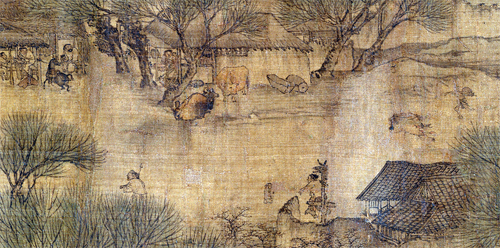
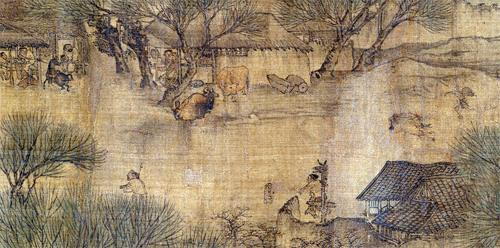
fix: 包体压缩 2455KB→550KB 过预览限制；时间轴水墨画像位置收紧、seg 近实色、小印改逐字堆叠防错位

diff --git a/tools/compress_assets.py b/tools/compress_assets.py
@@ -1,0 +1,34 @@
+"""压缩小程序图片资产以通过 2MB 预览包限制。
+
+- paper-bg.png -> paper-bg.jpg（统一宣纸底，尺寸降到 585x1266，质量 72）
+- palace.png -> palace.jpg（hero 插画，卡片底色 #FCFAFB 已有，无需透明通道）
+- tang-bg.jpg / song.jpg -> 同名覆盖（宽 900 内，质量 72）
+"""
+import io
+from pathlib import Path
+from PIL import Image
+
+ROOT = Path(__file__).resolve().parents[1] / 'miniprogram'
+
+
+def save_jpg(img, path, quality=72, max_w=1200):
+    img = img.convert('RGB')
+    if img.width > max_w:
+        img = img.resize((max_w, round(img.height * max_w / img.width)))
+    img.save(path, 'JPEG', quality=quality, optimize=True)
+    size = Path(path).stat().st_size // 1024
+    print(f'{path.name}: {size} KB  ({img.width}x{img.height})')
+
+
+bg = Image.open(ROOT / 'assets/paper-bg.png')
+print('paper-bg 原尺寸', bg.size)
+w = 585
+bg2 = bg.resize((w, round(bg.height * w / bg.width)))
+save_jpg(bg2, ROOT / 'assets/paper-bg.jpg', quality=72)
+
+palace = Image.open(ROOT / 'assets/palace.png')
+print('palace 原尺寸', palace.size)
+save_jpg(palace, ROOT / 'assets/palace.jpg', quality=84, max_w=760)
+
+save_jpg(Image.open(ROOT / 'assets/tang-bg.jpg'), ROOT / 'assets/tang-bg.jpg', quality=70, max_w=900)
+save_jpg(Image.open(ROOT / 'assets/paintings/song.jpg'), ROOT / 'assets/paintings/song.jpg', quality=74, max_w=900)

diff --git a/AGENTS.md b/AGENTS.md
@@ -154,7 +154,7 @@ python tools/validate_miniprogram.py
 - 使用 `rpx`；1px 细线可用 `px`（或 1rpx）。
 - 自定义导航栏：`navigationStyle: "custom"`；**四个主页面（首页/时间轴/发现/我的）顶部都只保留"史页"类字标，不放搜索/菜单图标**（2026-10-19 用户要求移除时间轴、发现页的搜索/菜单）。详情页顶栏为"‹ 返回 + 页面名 + 小印"。
 - 当前没有配置原生 `tabBar`，底部四栏是自绘的，用 `wx.redirectTo` 在 4 个页面间跳转。**这是临时方案**，后续可以改为 `custom-tab-bar` 组件。
-- 图片全部本地 PNG；小程序 `<image>` 使用绝对路径 `/assets/...`。
+- 图片全部本地 PNG/JPG；小程序 `<image>` 使用绝对路径 `/assets/...`；宣纸底为 `assets/paper-bg.jpg`（**不要再用 paper-bg.png，已删除**）。
 - 当前 hero 插画、盛唐背景 PNG/JPG 是按用户要求从参考图/新图裁切的；`paper-bg.png` 由 `tools/make_paper_bg.py` 生成；图标是透明 PNG。
 - 参考图裁切素材仅用于本项目原型；正式上线前必须确认授权，或替换为有授权的素材。不要自行手绘/找图替代，除非用户明确要求。
 - 真实数据在 `miniprogram/data/history.js`；新增内容必须带 `source` 字段，正式发布前需历史审校。
@@ -170,7 +170,7 @@ python tools/validate_miniprogram.py
 4. **发现 / 我的已完成基础版（2026-10-19）**；收藏、浏览足迹仍为 Toast 占位。
 5. **没有后端、搜索、独立详情页**；数据是本地 `data/history.js` 种子，尚未接 CMS。
 6. `project.config.json` 使用 `touristappid`，正式开发需替换。
-7. `paper-bg.png` 约 871KB，后续可压缩或改用更小的纹理。
+7. ~~paper-bg.png 约 871KB~~ → 已解决：全部图片转优化 JPG（paper-bg.jpg 25KB 等），包体 550KB；`tools/compress_assets.py` 可复现。
 8. 首页按要求去掉搜索/菜单后，2026-10-19 时间轴、发现页的搜索/菜单图标也已移除：四个主页面顶部均为纯字标；时间轴靠页内"古代/近现代"分段切换，无需菜单。
 9. 首页“今日史事”目前是编辑精选（汉武帝），与 10 月 18 日的精确日期匹配尚未完成；正式内容要按日期库核对。
 10. 旧版 `ui/neo/` 和 `docs/UI设计说明.md` 容易误用；除非用户明确要求，否则不要用旧版风格覆盖当前实现。

diff --git a/docs/DEVELOPMENT_LOG.md b/docs/DEVELOPMENT_LOG.md
@@ -296,6 +296,27 @@ miniprogram/data/history.js
 
 ---
 
+## 2026-10-19 · 修复预览包超限（2MB）+ 时间轴画像错位
+
+**问题 1：预览报"源码包超出最大限制 source size 2455KB > 2MB"**
+
+- 大头：paper-bg.png 851KB / palace.png 526KB / tang-bg.jpg 279KB / song.jpg 230KB。
+- 处理：新增 `tools/compress_assets.py`——paper-bg 重生成并转 JPG（585 宽 q72，后重新导出 750×1624 q70 = 25KB）；palace.png 转 palace.jpg（30KB）；tang-bg/song 重压缩；删除已无引用的 pavilion.png（143KB）。
+- 全部 6 个页面 WXML 的 `paper-bg.png` → `paper-bg.jpg`、`palace.png` → `palace.jpg`（用 Python UTF-8 安全替换；**教训：PowerShell `Get-Content|Set-Content` 管道会按 GBK 误写 UTF-8 文件导致全量乱码，已用 `git checkout --` 恢复后改用 Python**）。
+- 结果：包体 2455KB → **约 550KB**；全部 6 页 wcc 编译 exit 0。
+
+**问题 2：时间轴（及人物相关展示）错位**
+
+- 水墨画像此前 top:-30rpx 高 400rpx，底部经半透明 seg 透出、面部可能被胶囊遮挡 → 图整体下移（top 40rpx、高 350rpx），seg 背景改近实色（0.94）并在 z 轴上盖住可能的重叠。
+- 两枚竖排小印（人有志 / 大事记）从"依赖宽度自动换行"改为逐字 `<text>` 堆叠的固定结构，杜绝不同字体度量下的错位。
+- 真机复核点：胶囊与画像重叠不可再遮脸；seg 圆角条内不应透出图像纹理。
+
+**校验**
+
+- wcc exit 0；validate_miniprogram.py OK 6 pages；node --check 通过；包体 550KB。
+
+---
+
 ## 2026-10-19 · 时间轴按参考图重构
 
 **用户依据**：上传时间轴页面参考图（宣纸 + 内框细线 + 水墨人物 + 朱砂印 + 竖线挂卡）。
